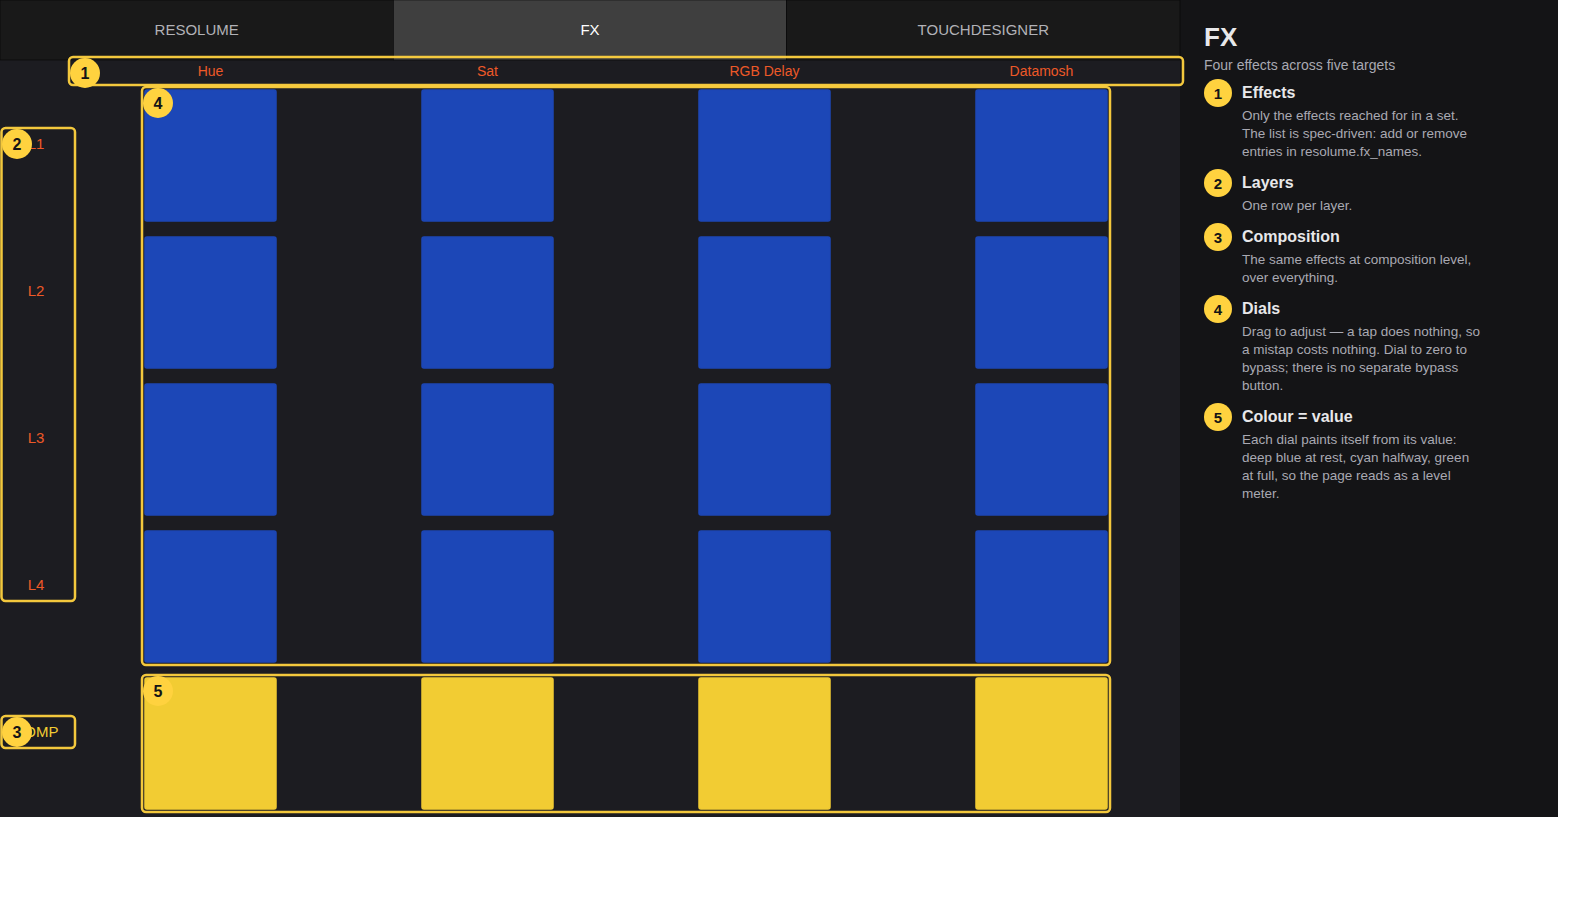
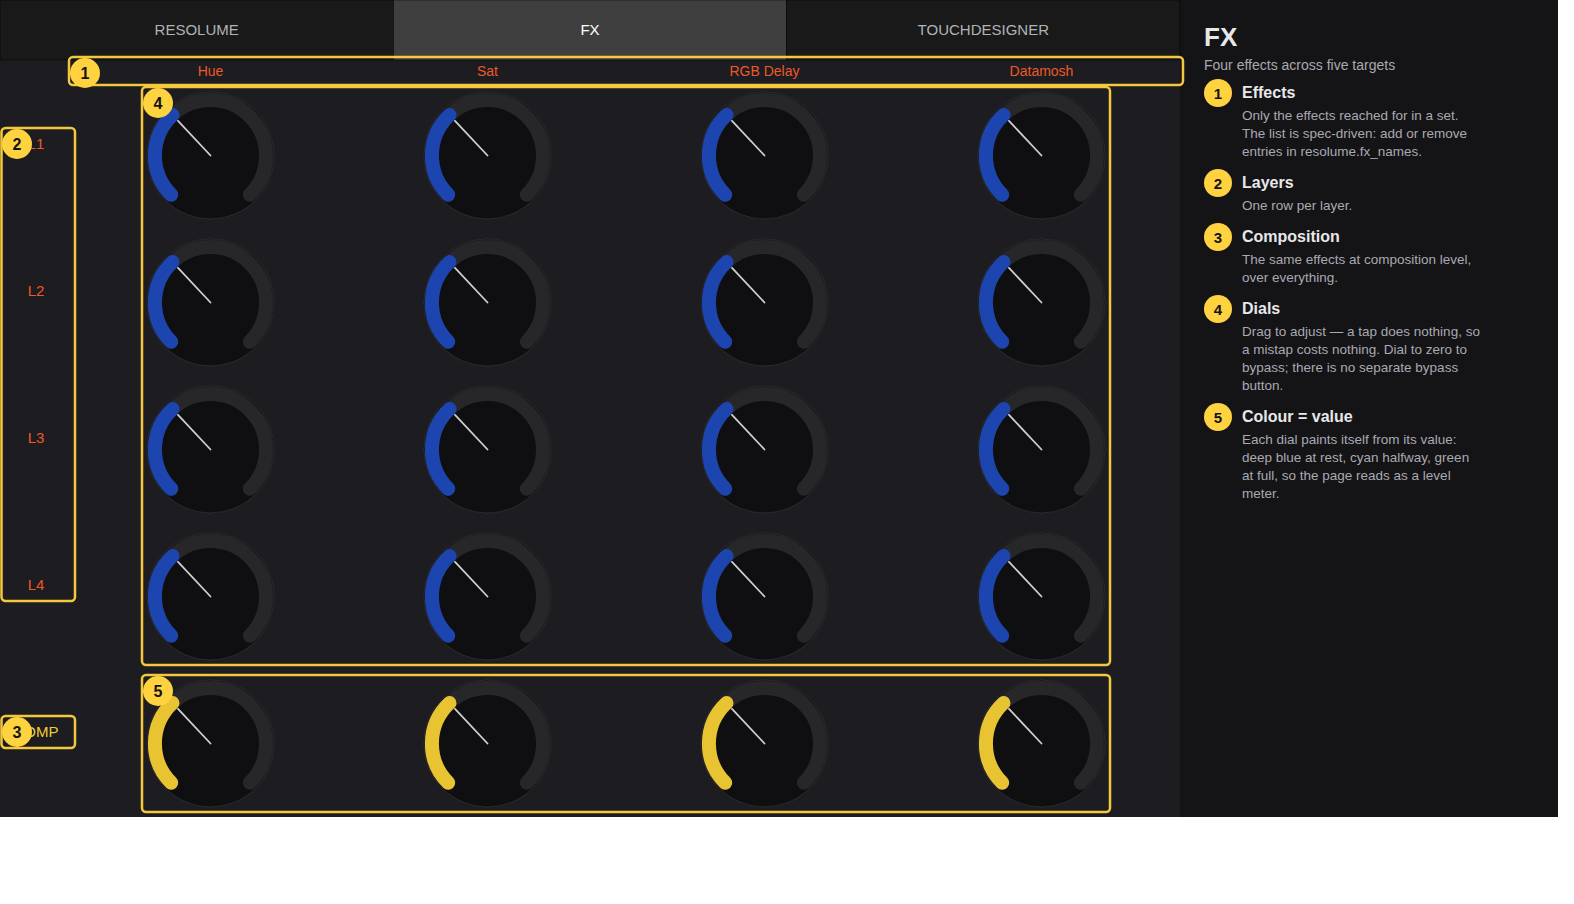
Draw preview controls the way TouchOSC draws them
The preview painted every control as a solid rectangle in its colour, which
made the docs images read as coloured blocks rather than a control surface.
Controls are now drawn by type: faders as a dark track with a bar and grid
ticks, dials as a ring with an arc and pointer, XY pads with crosshairs and a
cursor, buttons as a tinted face with corner brackets.

Corner brackets are short: at clip-grid density, long ones from adjacent
buttons meet and read as cross-hatch.

A legend of more than seven callouts now runs in two columns, so the page
render is not left floating in empty canvas.

This is for checking layouts during development. Real device screenshots are
better for the README, and the layout's geometry can be projected onto one.

diff --git a/tools/preview.py b/tools/preview.py
@@ -57,6 +57,136 @@ def css_color(c: dict | str, default="#888") -> str:
     return f"rgba({r},{g},{b},{a:.3f})"
 
 
+TRACK = "#0f0f12"          # the recessed face a control is drawn into
+EDGE = "rgba(255,255,255,0.10)"
+
+
+def corners(x, y, w, h, colour, length=None):
+    """TouchOSC's default outline: brackets at the corners, not a full box."""
+    # Short brackets: at clip-grid density, long ones from adjacent controls
+    # meet and read as a cross-hatch rather than as separate controls.
+    n = length or min(9.0, w / 5, h / 5)
+    d = []
+    for cx, cy, sx, sy in ((x, y, 1, 1), (x + w, y, -1, 1),
+                           (x, y + h, 1, -1), (x + w, y + h, -1, -1)):
+        d.append(f'M {cx + sx * n:.1f} {cy:.1f} L {cx:.1f} {cy:.1f} '
+                 f'L {cx:.1f} {cy + sy * n:.1f}')
+    return [f'<path d="{" ".join(d)}" fill="none" stroke="{colour}" '
+            f'stroke-width="1.6" opacity="0.85"/>']
+
+
+def value_of_x(p) -> float:
+    return 0.0
+
+
+def fader(x, y, w, h, colour, p):
+    """Dark track, a bar from the low end, and grid ticks when it snaps."""
+    vertical = int(p.get("orientation") or 0) in (0, 2)
+    out = [f'<rect x="{x:.1f}" y="{y:.1f}" width="{w:.1f}" height="{h:.1f}" '
+           f'rx="3" fill="{TRACK}" stroke="{EDGE}" stroke-width="1"/>']
+
+    steps = int(p.get("gridSteps") or 0) if p.get("grid") == "1" else 0
+    if steps > 1:
+        for i in range(1, steps):
+            t = i / steps
+            if vertical:
+                gy = y + h - t * h
+                out.append(f'<line x1="{x + 3:.1f}" y1="{gy:.1f}" '
+                           f'x2="{x + w - 3:.1f}" y2="{gy:.1f}" '
+                           f'stroke="{EDGE}" stroke-width="1"/>')
+            else:
+                gx = x + t * w
+                out.append(f'<line x1="{gx:.1f}" y1="{y + 3:.1f}" '
+                           f'x2="{gx:.1f}" y2="{y + h - 3:.1f}" '
+                           f'stroke="{EDGE}" stroke-width="1"/>')
+
+    # A doc image of controls all sitting at zero reads as broken rather than
+    # idle, so the bar is drawn at a nominal level to show which way it runs.
+    level = 0.34
+    if vertical:
+        bh = h * level
+        out.append(f'<rect x="{x + 2:.1f}" y="{y + h - bh:.1f}" '
+                   f'width="{w - 4:.1f}" height="{bh - 2:.1f}" rx="2" '
+                   f'fill="{colour}" opacity="0.9"/>')
+        out.append(f'<line x1="{x + 2:.1f}" y1="{y + h - bh:.1f}" '
+                   f'x2="{x + w - 2:.1f}" y2="{y + h - bh:.1f}" '
+                   f'stroke="#fff" stroke-width="1.5" opacity="0.75"/>')
+    else:
+        bw = w * level
+        out.append(f'<rect x="{x + 2:.1f}" y="{y + 2:.1f}" width="{bw - 2:.1f}" '
+                   f'height="{h - 4:.1f}" rx="2" fill="{colour}" opacity="0.9"/>')
+        out.append(f'<line x1="{x + bw:.1f}" y1="{y + 2:.1f}" '
+                   f'x2="{x + bw:.1f}" y2="{y + h - 2:.1f}" '
+                   f'stroke="#fff" stroke-width="1.5" opacity="0.75"/>')
+    return out
+
+
+def radial(x, y, w, h, colour, p):
+    """A ring dial: dark face, track ring, coloured arc and a pointer."""
+    import math
+    cx, cy = x + w / 2, y + h / 2
+    r = min(w, h) / 2 - 2
+    start, sweep = 135.0, 270.0
+    level = 0.34
+    out = [f'<circle cx="{cx:.1f}" cy="{cy:.1f}" r="{r:.1f}" fill="{TRACK}" '
+           f'stroke="{EDGE}" stroke-width="1"/>']
+
+    def arc(frm, to, stroke, width, opacity):
+        rr = r - width / 2 - 1
+        a0, a1 = math.radians(frm), math.radians(to)
+        x0, y0 = cx + rr * math.cos(a0), cy + rr * math.sin(a0)
+        x1, y1 = cx + rr * math.cos(a1), cy + rr * math.sin(a1)
+        large = 1 if (to - frm) % 360 > 180 else 0
+        return (f'<path d="M {x0:.1f} {y0:.1f} A {rr:.1f} {rr:.1f} 0 {large} 1 '
+                f'{x1:.1f} {y1:.1f}" fill="none" stroke="{stroke}" '
+                f'stroke-width="{width:.1f}" stroke-linecap="round" '
+                f'opacity="{opacity}"/>')
+
+    thickness = max(3.0, r * 0.22)
+    out.append(arc(start, start + sweep, EDGE, thickness, 1))
+    out.append(arc(start, start + sweep * level, colour, thickness, 0.95))
+
+    ang = math.radians(start + sweep * level)
+    inner = r - thickness - 2
+    out.append(f'<line x1="{cx:.1f}" y1="{cy:.1f}" '
+               f'x2="{cx + inner * math.cos(ang):.1f}" '
+               f'y2="{cy + inner * math.sin(ang):.1f}" stroke="#fff" '
+               f'stroke-width="1.8" opacity="0.8" stroke-linecap="round"/>')
+    return out
+
+
+def xy_pad(x, y, w, h, colour):
+    """Dark field with crosshairs and a cursor."""
+    px, py = x + w * 0.42, y + h * 0.55
+    return [
+        f'<rect x="{x:.1f}" y="{y:.1f}" width="{w:.1f}" height="{h:.1f}" rx="3" '
+        f'fill="{TRACK}" stroke="{EDGE}" stroke-width="1"/>',
+        f'<line x1="{x:.1f}" y1="{py:.1f}" x2="{x + w:.1f}" y2="{py:.1f}" '
+        f'stroke="{colour}" stroke-width="1" opacity="0.5"/>',
+        f'<line x1="{px:.1f}" y1="{y:.1f}" x2="{px:.1f}" y2="{y + h:.1f}" '
+        f'stroke="{colour}" stroke-width="1" opacity="0.5"/>',
+        f'<circle cx="{px:.1f}" cy="{py:.1f}" r="7" fill="none" '
+        f'stroke="{colour}" stroke-width="2"/>',
+    ]
+
+
+def button(x, y, w, h, colour, has_bg, has_outline, shape):
+    """A dark face tinted with the button's colour, plus corner brackets."""
+    if shape == CIRCLE:
+        body = (f'<ellipse cx="{x + w / 2:.1f}" cy="{y + h / 2:.1f}" '
+                f'rx="{w / 2:.1f}" ry="{h / 2:.1f}"')
+    else:
+        body = (f'<rect x="{x:.1f}" y="{y:.1f}" width="{w:.1f}" '
+                f'height="{h:.1f}" rx="3"')
+    out = []
+    if has_bg:
+        out.append(f'{body} fill="{TRACK}"/>')
+        out.append(f'{body} fill="{colour}" opacity="0.22"/>')
+    if has_outline:
+        out.extend(corners(x, y, w, h, colour))
+    return out
+
+
 def draw(node: ET.Element, ox: float, oy: float, out: list) -> None:
     p = props(node)
     frame = p.get("frame", {})
@@ -78,18 +208,25 @@ def draw(node: ET.Element, ox: float, oy: float, out: list) -> None:
     has_outline = p.get("outline", "1") == "1"
     shape = int(p.get("shape") or RECTANGLE)
 
-    if ntype not in ("GROUP", "PAGER", "LABEL"):
-        body = ""
-        if shape == CIRCLE:
-            body = (f'<ellipse cx="{x + w / 2:.1f}" cy="{y + h / 2:.1f}" '
-                    f'rx="{w / 2:.1f}" ry="{h / 2:.1f}"')
-        else:
-            body = f'<rect x="{x:.1f}" y="{y:.1f}" width="{w:.1f}" height="{h:.1f}" rx="2"'
+    if ntype in ("GROUP", "PAGER"):
+        if has_bg:
+            out.append(f'<rect x="{x:.1f}" y="{y:.1f}" width="{w:.1f}" '
+                       f'height="{h:.1f}" fill="{fill}" rx="3"/>')
+    elif ntype == "FADER":
+        out.extend(fader(x, y, w, h, fill, p))
+    elif ntype == "RADIAL":
+        out.extend(radial(x, y, w, h, fill, p))
+    elif ntype == "XY":
+        out.extend(xy_pad(x, y, w, h, fill))
+    elif ntype == "BUTTON":
+        out.extend(button(x, y, w, h, fill, has_bg, has_outline, shape))
+    elif ntype == "BOX":
+        body = (f'<ellipse cx="{x + w / 2:.1f}" cy="{y + h / 2:.1f}" '
+                f'rx="{w / 2:.1f}" ry="{h / 2:.1f}"' if shape == CIRCLE
+                else f'<rect x="{x:.1f}" y="{y:.1f}" width="{w:.1f}" '
+                     f'height="{h:.1f}" rx="3"')
         out.append(f'{body} fill="{fill if has_bg else "none"}" '
                    f'stroke="{fill if has_outline else "none"}" stroke-width="1.5"/>')
-    elif ntype in ("GROUP", "PAGER") and has_bg:
-        out.append(f'<rect x="{x:.1f}" y="{y:.1f}" width="{w:.1f}" height="{h:.1f}" '
-                   f'fill="{fill}"/>')
 
     if ntype == "LABEL":
         text = value_of(node, "text")

diff --git a/tools/page_diagram.py b/tools/page_diagram.py
@@ -171,7 +171,13 @@ def diagram(path: str, page_index: int, title: str, subtitle: str,
 
     boxes = frames(path, page_index)
     marks, legend = [], []
+    # A long legend in one column leaves the page render floating in empty
+    # space, so past a handful of callouts it runs in two.
+    columns = 2 if len(callouts) > 7 else 1
+    col_w = LEGEND_W if columns == 1 else LEGEND_W - 40
+    per_col = -(-len(callouts) // columns)
     ly = PAD + 74
+    col = 0
     for i, (label, names, note) in enumerate(callouts, start=1):
         targets = [boxes[n] for n in names if n in boxes]
         if not targets:
@@ -191,27 +197,33 @@ def diagram(path: str, page_index: int, title: str, subtitle: str,
             f'font-family="Helvetica,Arial,sans-serif" font-size="16" '
             f'font-weight="bold" fill="#141416">{i}</text>')
 
+        if i > 1 and (i - 1) % per_col == 0:
+            col += 1
+            ly = PAD + 74
+        lx = pw + PAD + col * col_w
+
         legend.append(
-            f'<circle cx="{pw + PAD + 14:.1f}" cy="{ly - 5:.1f}" r="14" '
+            f'<circle cx="{lx + 14:.1f}" cy="{ly - 5:.1f}" r="14" '
             f'fill="{ACCENT}"/>'
-            f'<text x="{pw + PAD + 14:.1f}" y="{ly + 1:.1f}" text-anchor="middle" '
+            f'<text x="{lx + 14:.1f}" y="{ly + 1:.1f}" text-anchor="middle" '
             f'font-family="Helvetica,Arial,sans-serif" font-size="15" '
             f'font-weight="bold" fill="#141416">{i}</text>')
         legend.append(
-            f'<text x="{pw + PAD + 38:.1f}" y="{ly:.1f}" '
+            f'<text x="{lx + 38:.1f}" y="{ly:.1f}" '
             f'font-family="Helvetica,Arial,sans-serif" font-size="16" '
             f'font-weight="bold" fill="{INK}">{esc(label)}</text>')
         ly += 22
-        for line in wrap(note, 40):
+        for line in wrap(note, 34 if columns == 2 else 40):
             legend.append(
-                f'<text x="{pw + PAD + 38:.1f}" y="{ly:.1f}" '
+                f'<text x="{lx + 38:.1f}" y="{ly:.1f}" '
                 f'font-family="Helvetica,Arial,sans-serif" font-size="13.5" '
                 f'fill="#a9a9b2">{esc(line)}</text>')
             ly += 18
         ly += 14
+        tallest = max(locals().get("tallest", 0), ly)
 
-    width = pw + LEGEND_W + 2 * PAD
-    height = max(ph, ly) + PAD
+    width = pw + columns * col_w + 2 * PAD
+    height = max(ph, tallest) + PAD
     svg = [
         f'<svg xmlns="http://www.w3.org/2000/svg" width="{width:.0f}" '
         f'height="{height:.0f}" viewBox="0 0 {width:.0f} {height:.0f}">',
